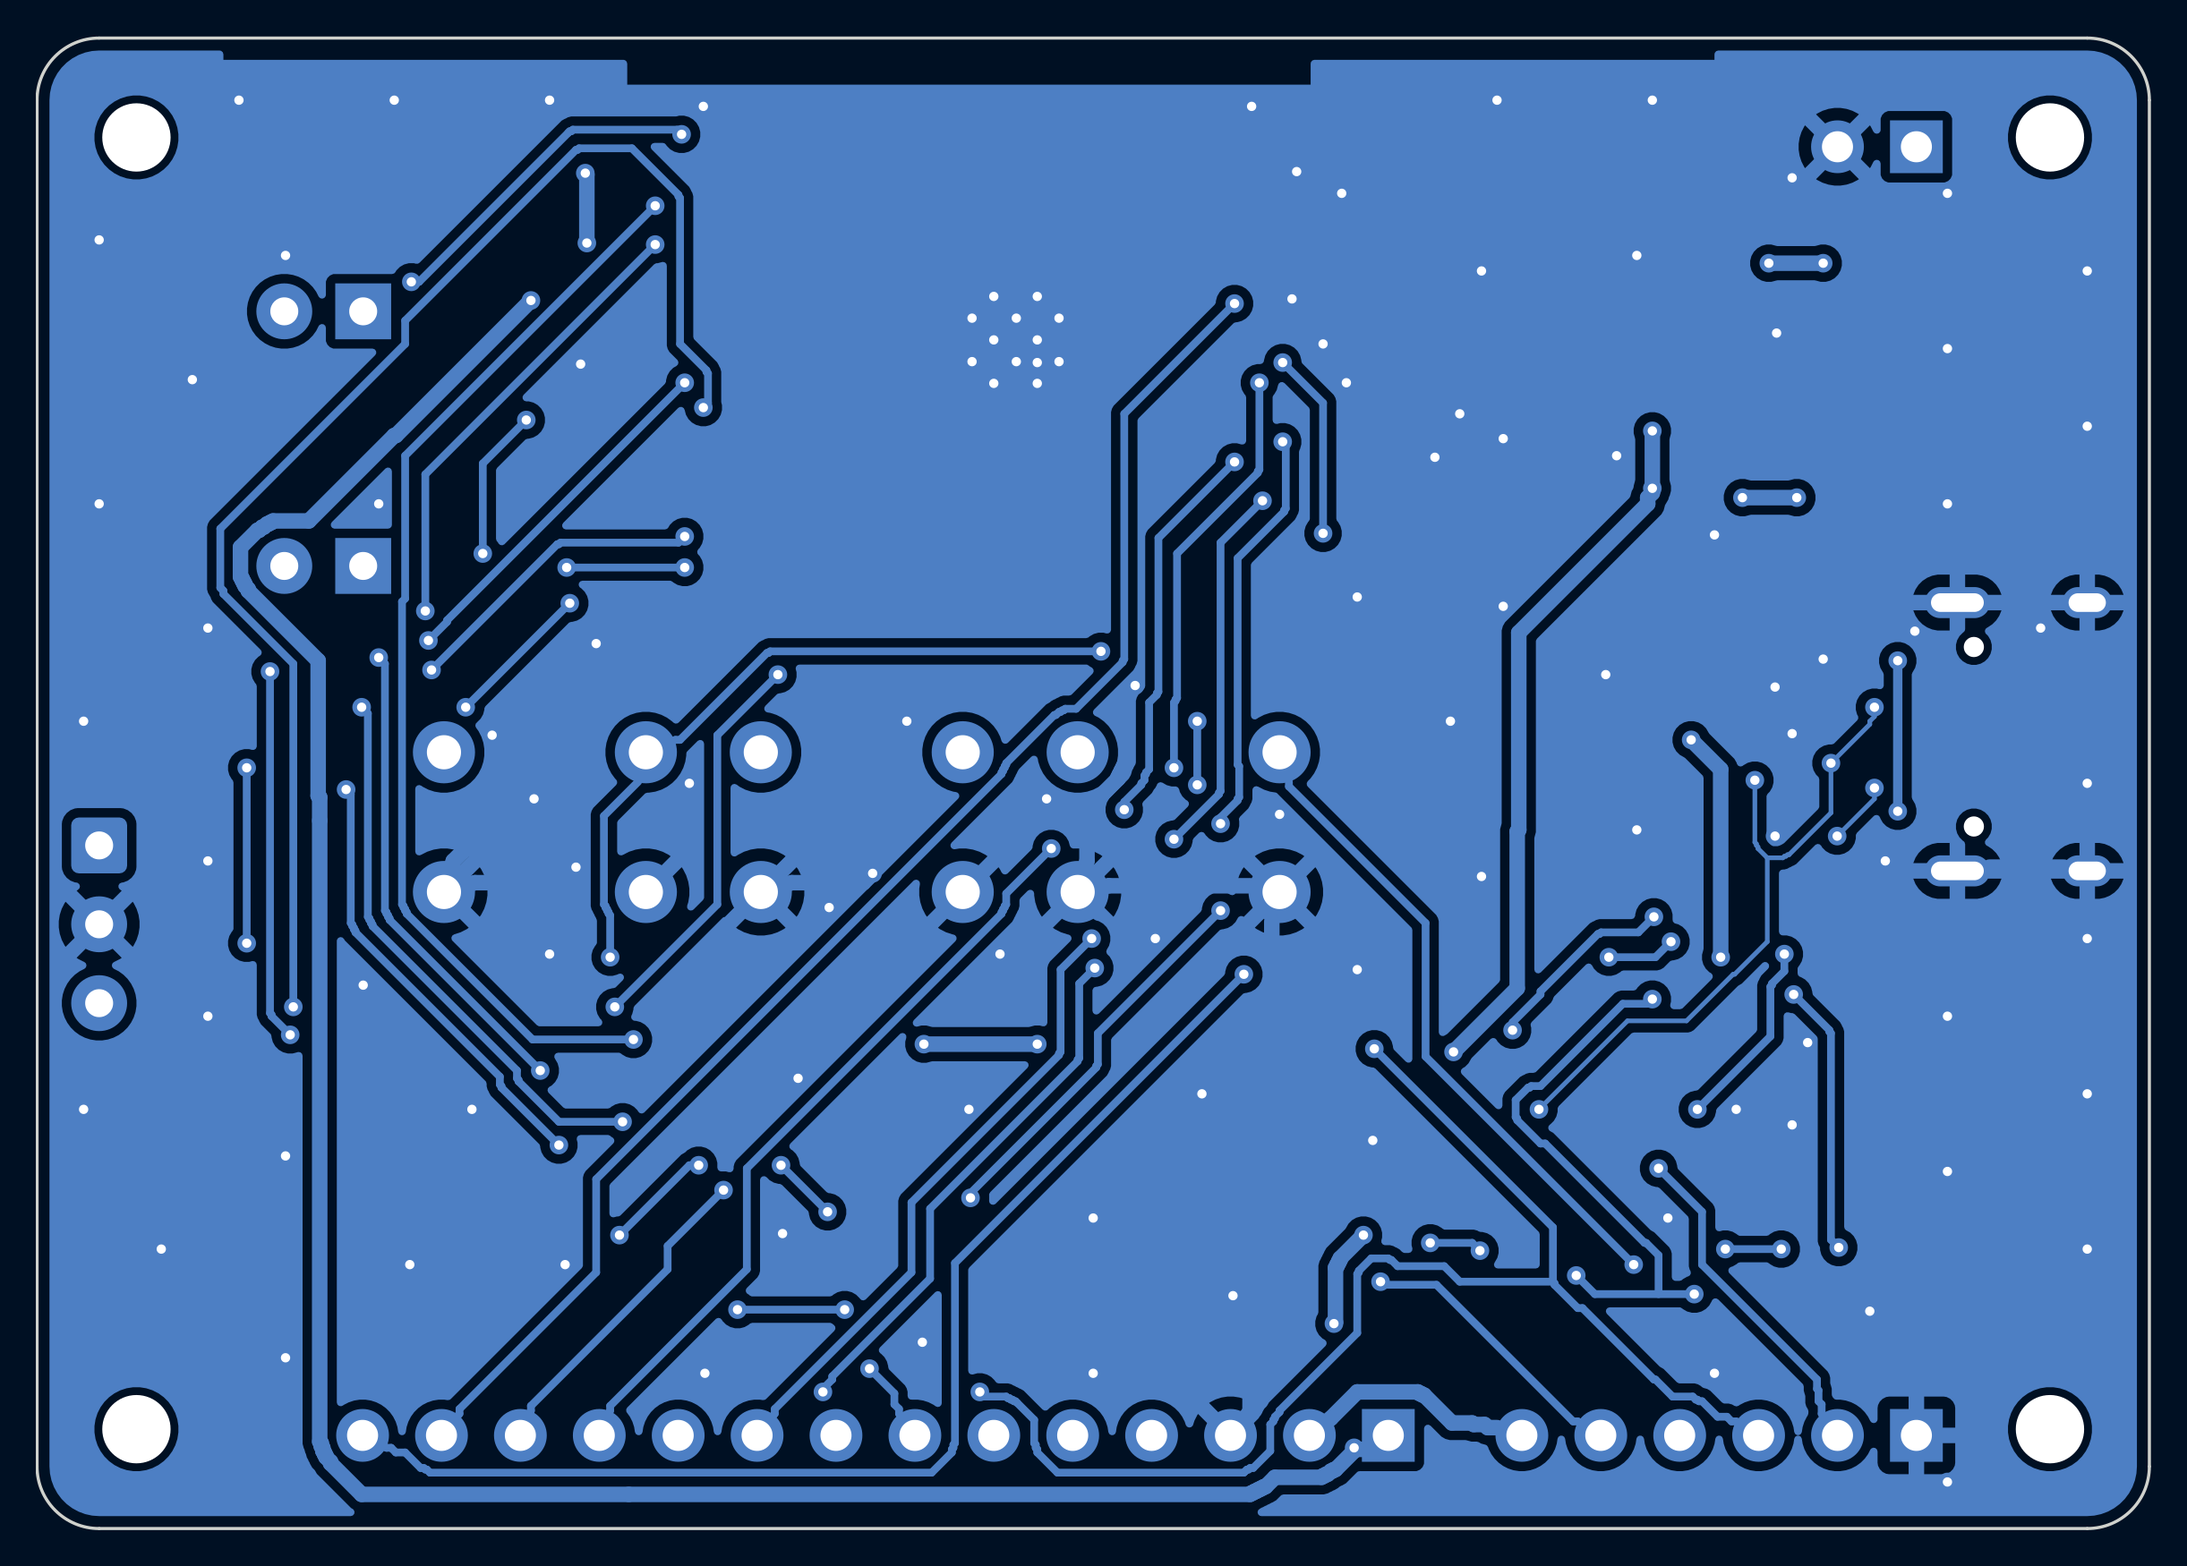
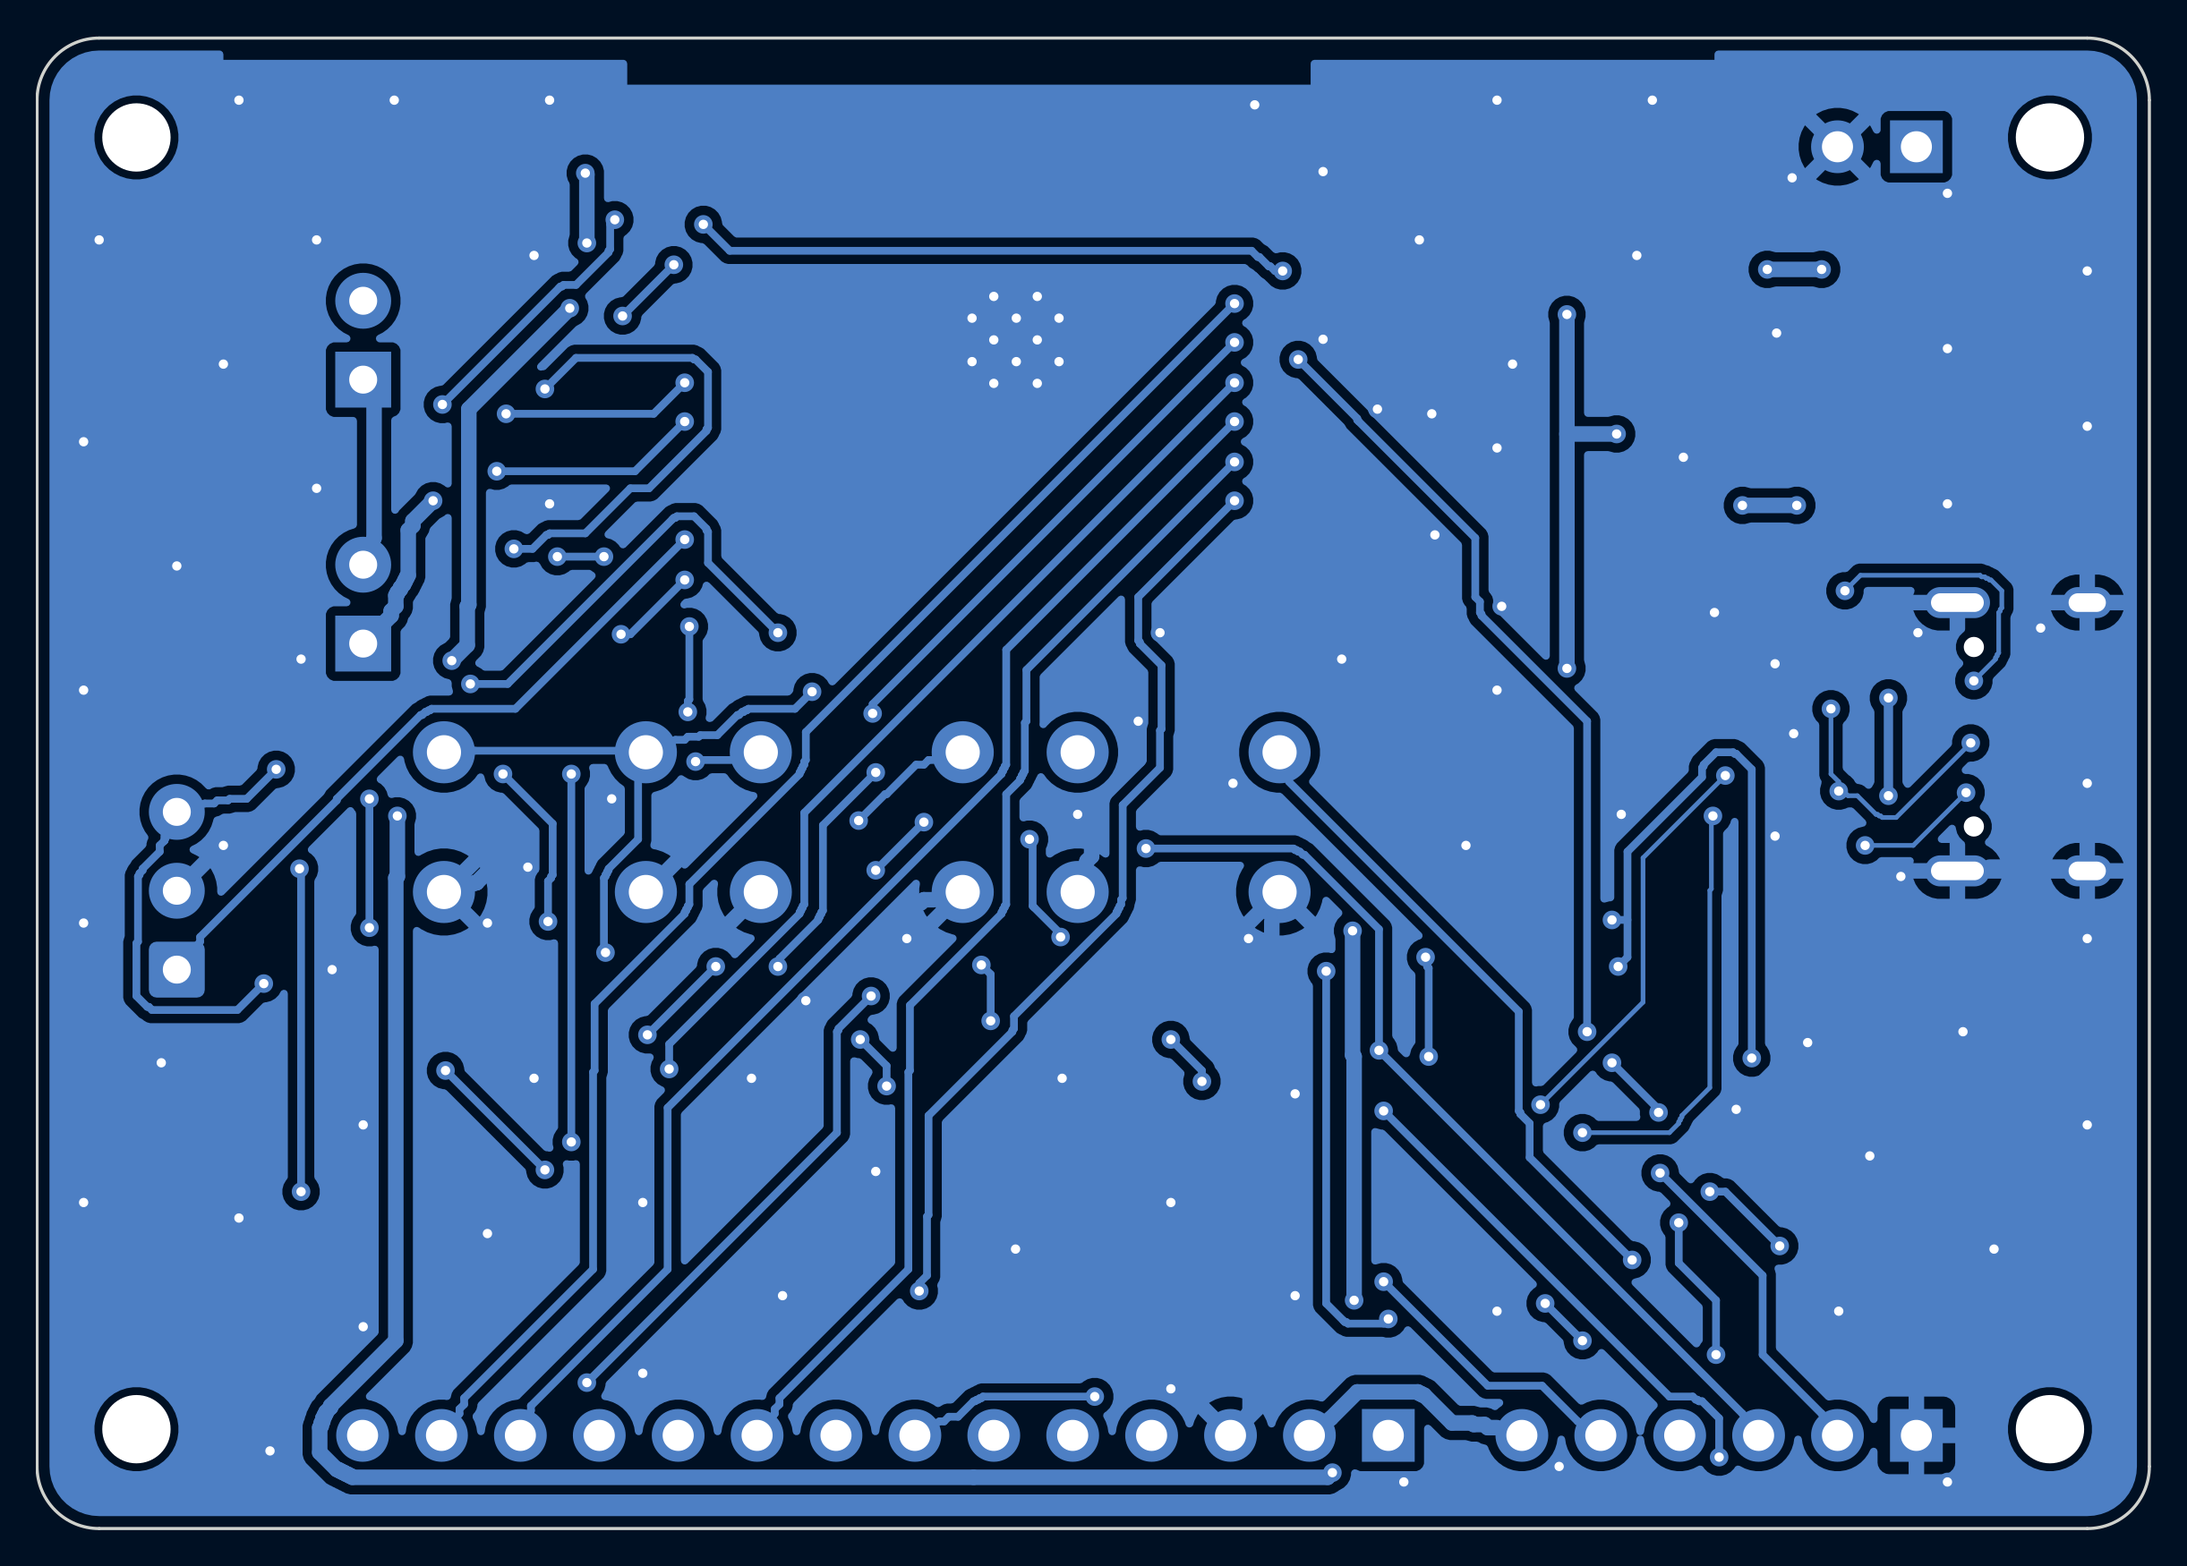
docs: v2.1.1 renders, IR edge view, LED bending instructions, JLC BOM notes

Changed region(s): [[0.0311, 0.0617, 0.9333, 0.9874], [0.7777, 0.1543, 0.84, 0.1851]]

diff --git a/docs/COMPONENTS.md b/docs/COMPONENTS.md
@@ -1,6 +1,6 @@
 # Components: what each part does, what to buy, and safe alternatives
 
-**Board:** ESP32 IR Blaster/Receiver v2.1, 68 × 48 mm, 2 layers, 51 parts.
+**Board:** ESP32 IR Blaster/Receiver v2.1.1, 68 × 48 mm, 2 layers, 51 parts.
 
 The machine-readable BOM is in `fab/BOM_full.csv`; the JLCPCB-format BOM and pick-and-place files are in
 `fab/`. Values come from [`gen/circuit.py`](../gen/circuit.py), the single source of truth for the design.
@@ -15,38 +15,39 @@ SOT-23-5/6, SOIC-16 and the ESP32 module (castellated pads). Everything else is 
 
 | Ref | Qty | Part | Package | Job on this board | LCSC # |
 |---|---|---|---|---|---|
-| U1 | 1 | **ESP32-WROOM-32E-N4** | module | Wi-Fi MCU, 4 MB flash | add before ordering |
+| U1 | 1 | **ESP32-WROOM-32E-N4** | module | Wi-Fi MCU, 4 MB flash | C701341 |
 | U4 | 1 | **CH340C** | SOIC-16 | USB ↔ serial for flashing; internal clock (no crystal) | C84681 |
 | U2 | 1 | **AP2112K-3.3TRG1** | SOT-23-5 | 3.3 V LDO, 600 mA | C51118 |
 | U3 | 1 | **USBLC6-2SC6** | SOT-23-6 | ESD protection on USB D+/D− | C7519 |
-| U5 | 1 | **Vishay TSOP38238** | 3-pin THT | IR receiver, 38 kHz demodulator → IO16 | add before ordering |
+| U5 | 1 | **Vishay TSOP38238** | 3-pin THT | IR receiver, 38 kHz demodulator → IO16; dome faces out of the right edge | C141632 |
 | Q1, Q2 | 2 | **MMBT3904** | SOT-23 | DTR/RTS auto-reset into the bootloader | C20526 |
 | Q3 | 1 | **AO3400A** | SOT-23 | N-MOSFET low-side switch for the IR LEDs | C20917 |
 | D1, D2 | 2 | **SS14** | SMA | Schottky "OR" of USB 5 V and EXT 5 V (no back-feeding) | C2480 |
-| D3, D4 | 2 | **Vishay TSAL6200** | 5 mm THT | 940 nm IR LEDs in series, ~100 mA pulses | add before ordering |
-| D5 | 1 | LED green | 0805 | power indicator | any |
-| D6 | 1 | LED blue | 0805 | user LED on IO2 | any |
-| F1 | 1 | PTC fuse, 0.75 A hold, ≥6 V | 1206 | USB over-current protection | add before ordering |
+| D3, D4 | 2 | **Vishay TSAL6200** | 5 mm THT, **lying flat** | 940 nm IR LEDs in series, ~100 mA pulses; leads bent 90°, lenses point out of the right edge | C55528 |
+| D5 | 1 | LED green (KENTO KT-0805G) | 0805 | power indicator | C2297 |
+| D6 | 1 | LED blue (KENTO KT-0805B) | 0805 | user LED on IO2 | C2293 |
+| F1 | 1 | PTC fuse, 0.75 A hold, 8 V (PTTC SMD1206P075TFT) | 1206 | USB over-current protection | C545214 |
 | J1 | 1 | **HRO TYPE-C-31-M-12** | USB-C 16P SMD | power + programming | C165948 |
 | J2 | 1 | pin header 1×2, 2.54 mm | THT | external 5 V input | – |
 | J3 | 1 | pin header 1×6, 2.54 mm | THT | UART: GND TX RX EN IO0 3V3 | – |
 | J4 | 1 | pin header 1×14, 2.54 mm | THT | expansion: VIN 3V3 GND SDA SCL 18 19 23 25 26 32 33 34 35 | – |
 | SW1–SW3 | 3 | tactile switch 6×6 mm, H 5 mm | THT | RESET (EN), BOOT (IO0), USER (IO13) | – |
-| R10 | 1 | 18 Ω 1 % | **1206** | IR LED current: (4.5 V − 2×1.35 V) / 18 Ω ≈ 100 mA | – |
+| R10 | 1 | 18 Ω 1 % (Yageo RC1206FR-0718RL) | **1206** | IR LED current: (4.5 V − 2×1.35 V) / 18 Ω ≈ 100 mA | C137378 |
 | R1, R2 | 2 | 5.1 kΩ | 0805 | USB-C CC pull-downs (asks the charger for 5 V) | C27834 |
-| R3, R4, R6, R7, R14 | 5 | 10 kΩ | 0805 | EN/IO0/button pull-ups, transistor base resistors | – |
-| R5, R12, R13 | 3 | 1 kΩ | 0805 | CH340 TX series, LED resistors | – |
-| R8, R11 | 2 | 100 Ω | 0805 | MOSFET gate resistor, TSOP supply filter | – |
-| R9 | 1 | 100 kΩ | 0805 | MOSFET gate pull-down (LEDs off during boot) | – |
-| R15, R16 | 2 | 4.7 kΩ | 0805 | I²C pull-ups | – |
-| C1, C5, C10 | 3 | 22 µF 16 V X5R | **1206** | bulk: VIN, 3V3 at the ESP32, IR LED reservoir | – |
-| C3, C11 | 2 | 10 µF 10 V+ X5R | 0805 | LDO output, TSOP supply filter | – |
-| C2, C7 | 2 | 1 µF 16 V | 0805 | LDO input, EN reset delay | – |
-| C6, C8 | 2 | 100 nF | 0805 | decoupling (ESP32, CH340) | – |
+| R3, R4, R6, R7, R14 | 5 | 10 kΩ | 0805 | EN/IO0/button pull-ups, transistor base resistors | C17414 |
+| R5, R12, R13 | 3 | 1 kΩ | 0805 | CH340 TX series, LED resistors | C17513 |
+| R8, R11 | 2 | 100 Ω | 0805 | MOSFET gate resistor, TSOP supply filter | C17408 |
+| R9 | 1 | 100 kΩ | 0805 | MOSFET gate pull-down (LEDs off during boot) | C149504 |
+| R15, R16 | 2 | 4.7 kΩ | 0805 | I²C pull-ups | C17673 |
+| C1, C5, C10 | 3 | 22 µF 25 V X5R (Samsung CL31A226KAHNNNE) | **1206** | bulk: VIN, 3V3 at the ESP32, IR LED reservoir | C12891 |
+| C3, C11 | 2 | 10 µF 25 V X5R | 0805 | LDO output, TSOP supply filter | C15850 |
+| C2, C7 | 2 | 1 µF 50 V X7R | 0805 | LDO input, EN reset delay | C28323 |
+| C6, C8 | 2 | 100 nF 50 V X7R | 0805 | decoupling (ESP32, CH340) | C49678 |
 | H1–H4 | 4 | M2 mounting holes | – | – | – |
 
-An "–" in the LCSC column means a generic part: JLCPCB's "basic" resistors and capacitors match by value
-and package.
+Every LCSC number was checked against JLCPCB's parts library on 2026-11-20, and all were in stock. Stock and
+Basic/Extended status change over time, so JLC's BOM tool has the final word. Parts with a "–" (headers,
+buttons) are generic through-hole parts you solder yourself.
 
 **Extra parts to buy:**
 * 2.54 mm female headers if you want plug-in modules on J4.
@@ -174,6 +175,12 @@ they're easy to lose.
 4. ESP32 module. Tack two opposite corners, check alignment, then do the rest. The ground pad underneath can
    be soldered through the vias from the back.
 5. Through-hole last: buttons, TSOP, IR LEDs, headers.
+   * **IR LEDs (D3, D4)** lie flat, lens pointing out of the right edge (footprint
+     `LED_D5.0mm_Horizontal_O1.27mm_Z3.0mm`). Bend both leads 90° about 3 mm from the LED body, so the lens
+     centre sits ~3 mm above the board and the body starts ~1.3 mm from the holes. The short leg (cathode,
+     flat side of the rim) goes in the **square pad**. The lens tip ends at the board edge.
+   * **TSOP38238 (U5)** stands upright with its dome facing out of the right edge, the same direction as the
+     LEDs. OUT goes in the square pad.
 
 **Before first power-up**, measure resistance:
 

diff --git a/README.md b/README.md
@@ -11,13 +11,13 @@ box, fan, LED strip) and plays them back from your phone, a script or Home Assis
 
 ![ESP32 IR Blaster, 3D render](docs/img/v2.1_3d_top_iso.png)
 
-<sub>KiCad 3D render of the v2.1 board, not a photo. The USB-C model is a stand-in for the HRO part, and the
-real IR LEDs (TSAL6200) are clear, not red.</sub>
+<sub>KiCad 3D render of the v2.1.1 board, not a photo. The USB-C model is a stand-in for the HRO part.</sub>
 
 ## Features
 
 * **Strong IR output:** two 940 nm LEDs driven at ~100 mA through a MOSFET, ≈8–10 m line-of-sight range.
-* **On-board receiver:** a 38 kHz TSOP38238 for learning codes.
+* **On-board receiver:** a 38 kHz TSOP38238 for learning codes. The receiver and both IR LEDs face out of
+  the same board edge, so one side of the board points at your devices.
 * **One-click flashing:** USB-C with a CH340C USB-serial chip and auto-reset; no buttons, no adapter.
 * **Ready-to-use firmware:**
   * web UI, REST API, captive-portal Wi-Fi setup, OTA updates;
@@ -35,8 +35,8 @@ real IR LEDs (TSAL6200) are clear, not red.</sub>
 |---|---|
 | MCU | ESP32-WROOM-32E (4 MB flash, Wi-Fi + BT), PCB antenna overhanging the board edge |
 | Power | USB-C 5 V or EXT 5 V header → SS14 diode-OR → AP2112K-3.3 (600 mA) |
-| IR transmit | 2× Vishay TSAL6200 in series, 18 Ω, AO3400A low-side switch on IO4 |
-| IR receive | Vishay TSOP38238 (38 kHz) on IO16 |
+| IR transmit | 2× Vishay TSAL6200 in series, lying flat and pointing out of the right edge; 18 Ω, AO3400A low-side switch on IO4 |
+| IR receive | Vishay TSOP38238 (38 kHz) on IO16; dome faces the same edge as the LEDs |
 | USB-serial | CH340C, DTR/RTS auto-reset (2× MMBT3904) |
 | User I/O | RESET, BOOT and USER (IO13) buttons; green power LED; blue LED on IO2 |
 | Headers | J3 UART (6-pin), J4 expansion (14-pin), J2 EXT 5V |
@@ -45,6 +45,11 @@ real IR LEDs (TSAL6200) are clear, not red.</sub>
 | Top | Bottom |
 |---|---|
 | ![top](docs/img/v2.1_3d_top.png) | ![bottom](docs/img/v2.1_3d_bottom_iso.png) |
+
+![IR edge](docs/img/v2.1_3d_ir_edge.png)
+
+<sub>The IR edge: the TSOP38238 receiver and both TSAL6200 LEDs (lying flat, leads bent 90°) face out of the
+same side of the board.</sub>
 
 ### Copper layout
 
@@ -77,7 +82,7 @@ Regenerate with `make copper`.
 | 5. Use | Join `ESP32-IR-Setup`, pick your Wi-Fi, open `http://irblaster.local` | [firmware/README.md#using-it](firmware/README.md#using-it) |
 | Something wrong? | Power, USB, flashing, Wi-Fi and IR checks, step by step | [docs/TROUBLESHOOTING.md](docs/TROUBLESHOOTING.md) |
 
-**Quickest flash:** download `esp32_ir_blaster_v2.1.0_full.bin` from
+**Quickest flash:** download `esp32_ir_blaster_v2.1.1_full.bin` from
 [Releases](https://github.com/abhiramgcos/Esp_ir_board/releases/latest). Open the
 [ESP Tool web flasher](https://espressif.github.io/esptool-js/) in Chrome, connect to the CH340 port, and
 program the file at address `0x0`.
@@ -183,10 +188,10 @@ The remaining DRC **warnings** are expected:
 
 ## Status
 
-* v2.1 hardware and firmware are complete and verified by the checks above. **No board has been
+* v2.1.1 hardware and firmware are complete and verified by the checks above. **No board has been
   manufactured yet**, so treat the first build as a prototype run.
-* LCSC numbers are missing for a few parts (ESP32, TSOP, TSAL6200, PTC fuse, LEDs). Pick them in JLCPCB's
-  BOM tool when ordering assembly.
+* Every SMD part has a verified, in-stock LCSC number, so JLCPCB's BOM tool matches the whole BOM
+  automatically. The through-hole parts (IR LEDs, TSOP, buttons, headers) are left for hand soldering.
 * Always check part rotations in the fab's placement preview.
 
 ## Documentation

diff --git a/docs/ORDERING.md b/docs/ORDERING.md
@@ -79,16 +79,15 @@ These all fit the cheapest standard process at both fabs.
    * **Confirm parts placement:** Yes. They send you a placement preview to approve.
 3. **NEXT** → upload the **BOM** `fab/BOM_JLCPCB.csv` and the **CPL** `fab/CPL_JLCPCB.csv` → **Process BOM & CPL**.
 4. Bill of Materials page:
-   * Lines with an LCSC number match automatically. For lines without one, click **Search**, type the part,
-     and pick an in-stock match:
-     * the ESP32-WROOM-32E-N4,
-     * the PTC fuse (1206, 0.75 A hold),
-     * the 22 µF 1206 capacitors,
-     * the 0805 LEDs.
+   * **Every line has an LCSC number**, checked in stock on 2026-11-20, so the BOM matches automatically. If
+     a part has gone out of stock, click **Search** on that line and pick a substitute from
+     [COMPONENTS.md](COMPONENTS.md).
    * Prefer **Basic** parts. Each **Extended** part (the ESP32, CH340C and USB-C usually are) adds a one-time
      loading fee of about $3.
-   * Through-hole parts (buttons, headers, TSOP, IR LEDs) are **not** in the CPL. Untick them if they show up,
-     and solder them yourself (5 minutes). Paid through-hole assembly is possible but not worth it here.
+   * Through-hole parts are **not** in the CPL: the buttons, headers, TSOP and IR LEDs. Solder them yourself;
+     it takes about 10 minutes. The IR LEDs must be bent 90° to lie flat, which machine assembly doesn't do,
+     so they're best done by hand. See [COMPONENTS.md §3](COMPONENTS.md#3-what-to-buy-for-hand-assembly).
+     Order the TSOP38238 and TSAL6200 alongside the boards (LCSC C141632 and C55528), or locally.
    * See [COMPONENTS.md](COMPONENTS.md) for allowed substitutes if a part is out of stock.
 5. **NEXT** → Component Placements preview. **Check every part's rotation and pin 1.** Rotation offsets
    differ between libraries and JLC's database. Common ones to fix with the rotate button:

diff --git a/CHANGELOG.md b/CHANGELOG.md
@@ -2,6 +2,20 @@
 
 Hardware and firmware share one version number. Hardware revisions are printed on the PCB silkscreen.
 
+## [2.1.1] - 2026-11-20
+
+### Hardware
+* **IR front:** the TSOP38238 now faces out of the right board edge instead of inward toward the USB-C side.
+  The two TSAL6200 LEDs lie flat (leads bent 90°, `LED_D5.0mm_Horizontal_O1.27mm_Z3.0mm` footprint) and point
+  the same way, so the receiver and transmitter share one edge.
+* Board re-routed; DRC and Gerber connectivity re-verified.
+* **JLCPCB assembly ready:** every SMD part now has an LCSC number, checked in stock. The ESP32 (C701341),
+  PTC fuse, 22 µF and 18 Ω 1206 parts and both LEDs were added. TSOP38238 (C141632) and TSAL6200 (C55528)
+  numbers were added to the full BOM.
+
+### Firmware
+* Version bumped to 2.1.1 to match the hardware; no functional change.
+
 ## [2.1.0] - 2026-11-20
 
 Same circuit and pin map as 2.0.0. Firmware, Gerbers and accessories are interchangeable between the two.
@@ -66,5 +80,6 @@ JLCPCB BOM/CPL files.
 Original board. Only fab files exist; they are kept in `v1/fab/`. The review is in
 [docs/v1-review.md](docs/v1-review.md).
 
+[2.1.1]: https://github.com/abhiramgcos/Esp_ir_board/releases/tag/v2.1.1
 [2.1.0]: https://github.com/abhiramgcos/Esp_ir_board/releases/tag/v2.1.0
 [2.0.0]: https://github.com/abhiramgcos/Esp_ir_board/releases/tag/v2.0.0

diff --git a/docs/TROUBLESHOOTING.md b/docs/TROUBLESHOOTING.md
@@ -64,7 +64,7 @@ CH340 driver from WCH (wch-ic.com, "CH341SER").
 
 ```bash
 esptool.py --chip esp32 --port /dev/ttyUSB0 erase_flash          # optional: also wipes saved codes + Wi-Fi
-esptool.py --chip esp32 --port /dev/ttyUSB0 --baud 921600 write_flash 0x0 esp32_ir_blaster_v2.1.0_full.bin
+esptool.py --chip esp32 --port /dev/ttyUSB0 --baud 921600 write_flash 0x0 esp32_ir_blaster_v2.1.1_full.bin
 ```
 
 ## 4. Boot and runtime
@@ -73,7 +73,7 @@ Open the serial console at 115200: `pio device monitor`, or the Arduino Serial M
 prints:
 
 ```
-ESP32 IR Blaster firmware v2.1.0 (<build date>)
+ESP32 IR Blaster firmware v2.1.1 (<build date>)
 3 saved codes
 Wi-Fi: 192.168.1.42
 Web UI: http://irblaster.local  (http://192.168.1.42)
